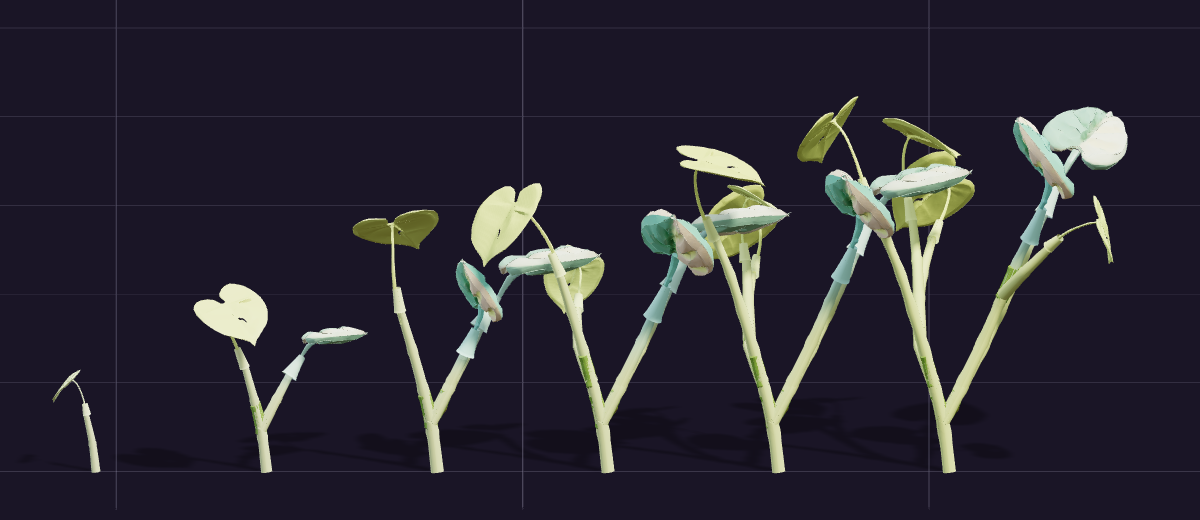
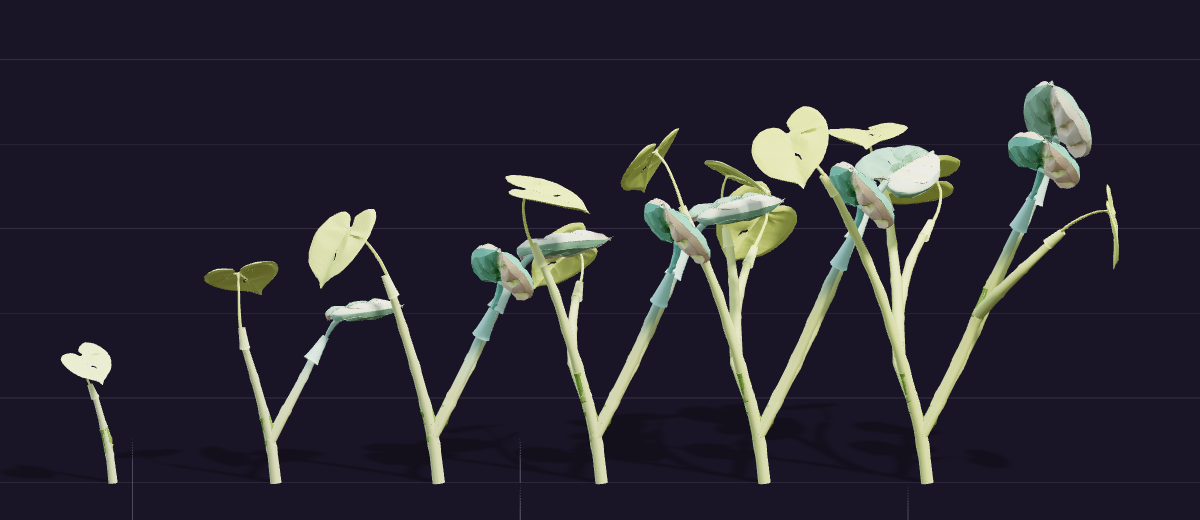
[growth] D46 바로잡음 — 삽수가 들고 온 잎은 «다 큰 잎»으로 그린다(잎 1장 삽수가 말린 새순으로만 보이던 것)
총괄 · leaf 재기(d46_check: 40일 4/4 · 120일 3/4 가 잎몸 없는 순). youngPlantOf 가 «N 번째 잎을 막 낸 때»를 그려
다음 잎 몫 0 이면 N 번째 잎이 말린 순이었다.
- plant_assemble.js youngPlantOf: 들고 온 잎은 다 큰 잎(나이 ≥ 난때 + stageMid × matSpan) · 흙에서 낸 잎은 펼쳐진 뒤부터
  (+ PROLOGUE_SHOW_M × matSpan) · 다음 잎만 몫 끝자락에 말린 순 → core 가 그 잎을 세는 날 막 펼쳐짐. 숫자는 다 원본 것
  (TAIL __params 에 leafShowM = PROLOGUE_SHOW_M — drawLeafStage 의 0.22). 새 칸 grewLeaves(core c.grewLeaves · 안 주면
  다 들고 온 잎) · userData.spearCount(말린 순 · leafCount 에 안 듦) · carriedLeaves.
  무늬 삽수(leaf ③)도 같은 길 — 들고 온 무늬 잎이 중간잎이라 등급 그림(midSkin)으로 보인다.
- test_young_plant ⑨(새): 잎 1장·3장 들고 온 잎 = 펼쳐진 중간잎 · 흙에서 낸 잎은 몫 0 에 막 펼쳐짐 · 몫 0.97 에 다음 잎만 순.
지킴이 — 결과를 읽은 뒤 커밋: young_plant · core probe_d46_young(잎 1장 그림 높이 0.033 → 0.145m) · monstera_canon ·
  skin_room_matches_zoom · species_draw · species_room_zoom · probe_branchcut(0❌) · save · save_roundtrip · propagation ·
  cutting_wiring 모두 exit 0.

diff --git a/src/render3d/plant_assemble.js b/src/render3d/plant_assemble.js
@@ -186,7 +186,9 @@ const TAIL = `
     return n;
   },
   __params(){ return { seedEnd:P.seedEnd, sproutEnd:P.sproutEnd, spawnStep:P.spawnStep,
-                       matSpan:P.matSpan, stageYoung:P.stageYoung, stageMid:P.stageMid }; },
+                       matSpan:P.matSpan, stageYoung:P.stageYoung, stageMid:P.stageMid,
+                       /* ★ 2026-10-09 (D46 뒤 · youngPlantOf) — 새순이 잎으로 펼쳐지는 성숙도. 원본 PROLOGUE_SHOW_M(= drawLeafStage 의 0.22) 그대로 */
+                       leafShowM:PROLOGUE_SHOW_M }; },
   /* ★ 2026-10-09 (총괄 D46 · youngPlantOf) — 읽기 둘. 그리기 규칙 없음.
      __leafBirthsOf: 그 씨앗의 그루가 나이 g 까지 낸 잎의 «난 때»(leafBirth · 나이 단위) — 난 차례대로, 겹치면 한 번.
        원본 topologyNow 를 «그 씨앗으로» 잠깐 부를 뿐이다(SEED 를 꽂았다 되돌린다).
@@ -724,8 +726,14 @@ async function build(opt) {
          seed        그루마다 다른 꼴 — core 가 (S.sim.seed, 삽수 id) 에서 만든 정수
          leaves      [{ varie, grade, midSkin, matSkin, matured }]  아래(오래된 잎) → 위(생장점) · 길이 = 잎 수
                      (정본 propagation c.leafVarie · c.leafGrade · shop.leafSkinsFor(...).midSkin/matSkin)
-         nextLeaf01  다음 잎까지 온 몫 0..1 — core c.leafDays / CUTTING_LEAF_DAYS. 안 주면 0(막 난 잎)으로 짓고
+         nextLeaf01  다음 잎까지 온 몫 0..1 — core c.leafDays / CUTTING_LEAF_DAYS. 안 주면 0 으로 짓고
                      userData.nextLeaf01Given=false 로 적는다(조용히 메꾸지 않는다)
+         grewLeaves  흙에서 새로 낸 잎 수(core c.grewLeaves). 나머지(N − grewLeaves)는 «들고 온 잎»이다.
+                     ★ 총괄 2026-10-09(leaf 재기 · 잎 1장 삽수가 말린 새순으로만 그려졌다) — 들고 온 잎은 «다 큰 잎»으로 친다:
+                       · 잎 N 장이면 N 번째 잎은 «펼쳐진 뒤»부터 그린다(나이 ≥ 난때 + leafShowM × matSpan) — 말린 순으로 안 그린다
+                       · 다 들고 온 잎이면(grewLeaves 0 · 안 주면 이쪽) N 번째 잎도 다 큰 잎(나이 ≥ 난때 + stageMid × matSpan)
+                       · 새로 날 잎(N+1)만 다음 잎까지 몫의 끝자락에 «말린 순 → 펼쳐짐»으로 보인다 — core 가 N+1 을 세는 그날 막 펼쳐진다
+                     숫자는 다 원본 것이다(matSpan · stageMid · PROLOGUE_SHOW_M) — 새로 만든 문턱 없음
          ageDays     받아서 userData 에 적기만 한다 — ★ 꼴을 정하지 않는다. 자리 잡은 뒤 지난 날이 같아도
                      빛이 막은 날은 안 자랐다. 꼴은 «잎 수 + 다음 잎까지의 몫»이 정한다(core 장부와 한 축)
          potD        놓일 그릇 지름[m] — 원본 그루의 화분이 이 지름이 되게 줄인 뒤 화분만 걷는다(그루와 화분의 비가 원본 그대로)
@@ -763,11 +771,22 @@ async function build(opt) {
       if (births.length < N) return null;
       const b0 = births[N - 1], b1 = births.length > N ? births[N] : null;
 
-      /* ②③ 나이 → 생장일. 원본 ageOf 로 되짚어 [b0, b1) 안에 들게 맞춘다(반올림이 경계를 넘지 않게) */
-      const gA = b1 != null ? b0 + f * (b1 - b0) : b0;
+      /* ②③ 나이 → 생장일. ★ 들고 온 잎은 다 큰 잎 · N 번째 잎은 펼쳐진 뒤(위 §grewLeaves).
+           U = 펼쳐짐(leafShowM × matSpan) · M = 다 큼(stageMid × matSpan) — 원본 값만 쓴다.
+           나이 = 난때[N−1] + U + nextLeaf01 × (난때[N] − 난때[N−1])  → nextLeaf01 이 1 에 가까우면 N+1 번째가 말린 순으로 보이다가
+           core 가 N+1 을 세는 그날(몫 0) 막 펼쳐진다(이음매 없음). 위 끝은 난때[N] + U 아래(N+1 번째가 펼쳐지면 안 된다). */
+      const PP = G.__params();
+      const U = (PP.leafShowM ?? 0.22) * PP.matSpan, Mg = PP.stageMid * PP.matSpan;
+      const grew = Number.isFinite(o.grewLeaves) ? Math.max(0, Math.floor(o.grewLeaves)) : null;
+      const carried = grew == null ? N : Math.max(0, N - grew);
+      const span = b1 != null ? b1 - b0 : 0;
+      const lower = b0 + (carried >= N ? Mg : U);
+      const upper = b1 != null ? b1 + U : Infinity;
+      let gA = Math.max(lower, b0 + U + f * span);
+      if (gA >= upper) gA = upper - Math.min(1, (upper - lower) * 0.5);
       let days = Math.max(0, Math.min(G.GMAX, Math.ceil(G.dayOfAge(gA) - 1e-9)));
-      while (days < G.GMAX && G.ageOf(days) < b0) days++;
-      while (b1 != null && days > 0 && G.ageOf(days) >= b1 && G.ageOf(days - 1) >= b0) days--;
+      while (days < G.GMAX && G.ageOf(days) < lower) days++;
+      while (upper < Infinity && days > 0 && G.ageOf(days) >= upper && G.ageOf(days - 1) >= lower) days--;
 
       /* ④ 잎 상태·그림 — 정본이 준 대로 */
       const leafState = leaves.map((l, i) => ({ leafBirth: births[i], varie: !!(l && l.varie), matured: !!(l && l.matured) }));
@@ -795,13 +814,17 @@ async function build(opt) {
         delete plant.userData.potPart;
       }
 
-      const leafAx = new Set();
-      inner.traverse(c => { const u = c.userData || {}; if (u.part === 'leaf' && u.axisKey) leafAx.add(u.axisKey); });
+      /* 잎 수 = 펼쳐진 잎이 붙은 축 · 말린 순(원본 addBud · assetKey 'bud_…')은 따로 센다 — core 장부의 잎 수와 같은 뜻 */
+      const leafAx = new Set(), spearAx = new Set();
+      inner.traverse(c => { const u = c.userData || {}; if (u.part !== 'leaf' || !u.axisKey) return;
+        let bud = false; c.traverse(d => { const k = d.userData && d.userData.assetKey; if (k && /^bud_/.test(k)) bud = true; });
+        (bud ? spearAx : leafAx).add(u.axisKey); });
+      for (const k of leafAx) spearAx.delete(k);
       const bb = new THREE.Box3().setFromObject(plant);
       Object.assign(plant.userData, {
         kind: 'youngPlant', species, seed, growthDays: days, ageG: gA,
         ageDays: Number.isFinite(o.ageDays) ? o.ageDays : null,
-        leafCountWanted: N, leafCount: leafAx.size, leafBirths: births.slice(0, N),
+        leafCountWanted: N, leafCount: leafAx.size, spearCount: spearAx.size, carriedLeaves: carried, grewLeaves: grew, leafBirths: births.slice(0, N),
         nextLeaf01: f, nextLeaf01Given: given,
         leaves: [], droppedParts,
         sizeM: { h: bb.isEmpty() ? 0 : (bb.max.y - bb.min.y), d: rotSafeDiameter(plant, plant) }

diff --git a/docs/handoff/growth-index.md b/docs/handoff/growth-index.md
@@ -308,6 +308,12 @@ src/render3d/plant_assemble.js  getPlantAssembler() 의 youngPlantOf(o) → THRE
   TAIL 읽기 둘: __leafBirthsOf(seed, g)(SEED 를 잠깐 꽂고 topologyNow) · __soilY()
 ```
 ⚠ 삽수가 모주에서 들고 온 잎도 «이 그루의 1·2… 번째 잎»으로 그려진다 — D46 «작은 그루» 결정의 뜻. 병 삽수(뿌리내리는 중)는 branchOf 그대로.
+★ 바로잡음(총괄 2026-10-09 · leaf 재기 d46_check: 잎 1장 삽수가 «말린 새순»으로만 그려져 들고 온 잎이 사라졌다):
+  «N 번째 잎을 막 낸 때»를 그려서 다음 잎 몫 0 이면 N 번째가 말린 순이었다. 이제 —
+    들고 온 잎은 다 큰 잎(나이 ≥ 난때 + stageMid × matSpan) · 흙에서 낸 잎은 펼쳐진 뒤부터(+ PROLOGUE_SHOW_M × matSpan)
+    다음 잎(N+1)만 몫 끝자락에 말린 순 → core 가 N+1 을 세는 그날 막 펼쳐짐(이음매 없음) · 숫자는 다 원본 것
+  칸: grewLeaves(core c.grewLeaves · 안 주면 다 들고 온 잎) · userData.spearCount(말린 순 · leafCount 에 안 듦) · carriedLeaves
+  잰 것: core probe_d46_young 잎 1장 그림 높이 0.033 → 0.145m · test_young_plant ⑨ 넷
 사진: docs/handoff/img/young_plant_row.png (잎 1~6 · 잎 2·3 무늬)
 
 ### 2026-10-09 · D45 새 식물 두 종 — 핑크프린세스(PP) · 알로카시아 프라이덱(AL) 생장 규칙 첫 판
